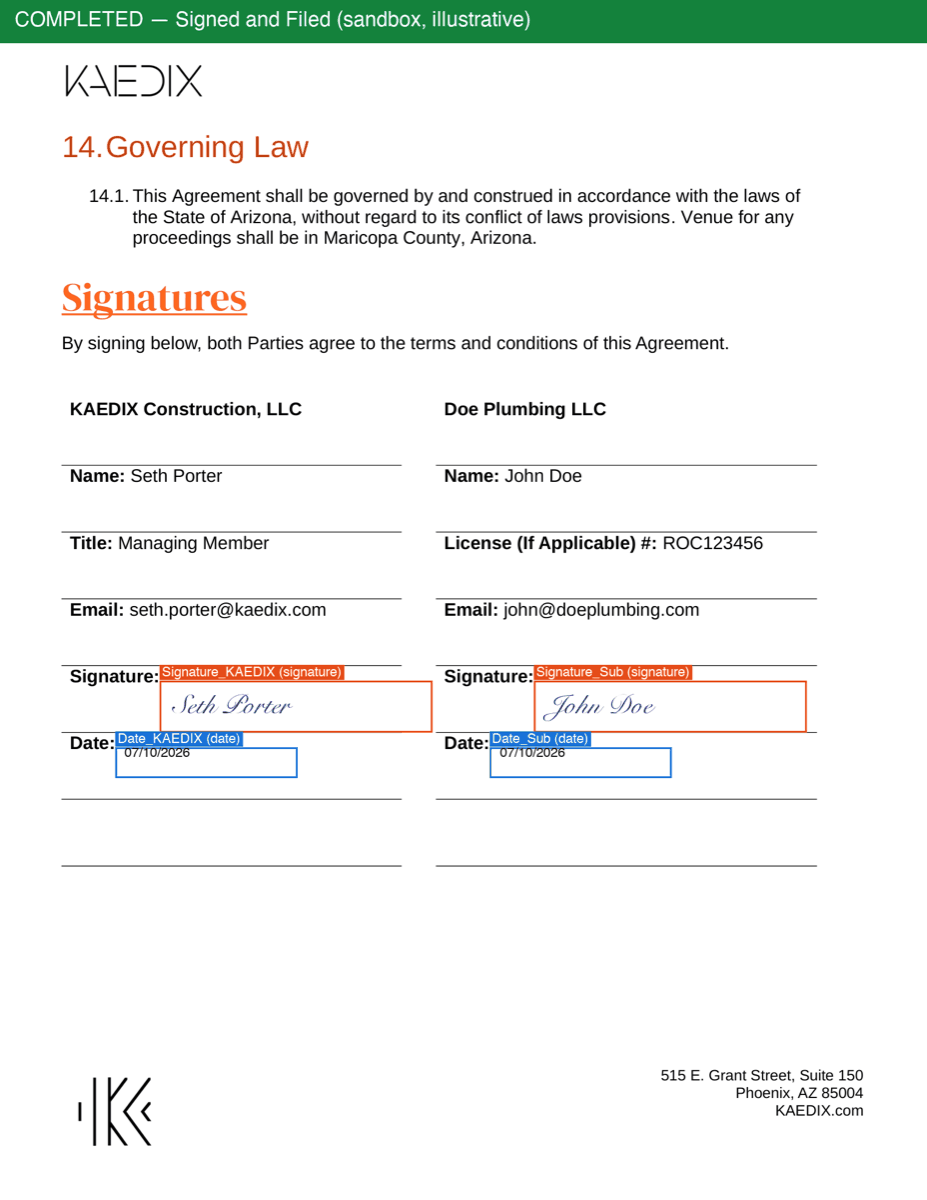
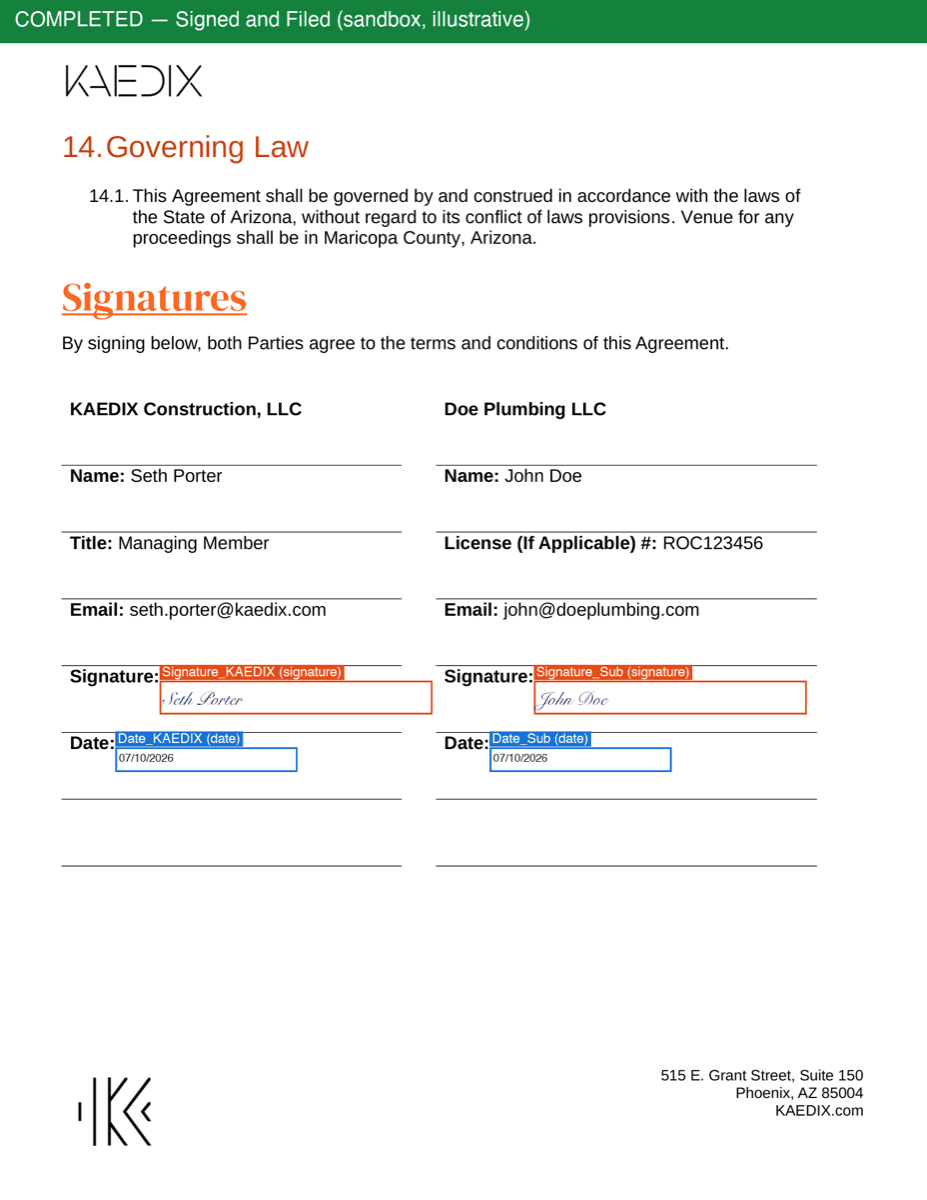
Fix signature/date field height so they sit above the ruled line
Each row's ruled line sits exactly 34pt below the field's anchor point,
same as the field's previous height, so the field landed right on the
line instead of clearing it. Measured the actual label/line coordinates
from the rendered PDF (not guessed) and shrunk the fields (signature
34pt -> 22pt, date 20pt -> 16pt) so they sit inside the blank space with
a visible margin above the line, matching how Name/Title/Email display
their values above their own underlines. Re-verified in sandbox: both
fields now clear their row's line by 12-18pt. Re-rendered the
field-placement and closeout PNGs using the real field coordinates this
time instead of eyeballed pixel positions.

Changed region(s): [[0.5135, 0.555, 0.8759, 0.6475], [0.1208, 0.555, 0.4833, 0.6475]]

diff --git a/backend/agreement_generator.py b/backend/agreement_generator.py
@@ -167,6 +167,15 @@ def _add_signature_tags(xml: str) -> str:
     Signatures section, mirroring the document's own signature blocks. Each
     anchor below is matched on its unique paraId so KAEDIX (left column) and
     Subcontractor (right column) get distinct fields.
+
+    The tag renders inline right after the "Signature:"/"Date:" label, so
+    DocuSeal anchors the field at the label's own line and extends the
+    field's height downward from there. Each row's ruled line sits exactly
+    34pt below that anchor — the same as the field's original height — so a
+    34pt-tall field lands right on top of the line instead of clearing it.
+    Shrinking the field to leave a visible margin (measured against the
+    rendered PDF's actual line/label coordinates, not guessed) keeps it
+    inside the blank space above the line, like every other row's value.
     """
 
     # KAEDIX — Signature
@@ -177,7 +186,7 @@ def _add_signature_tags(xml: str) -> str:
         '<w:p w14:paraId="0000010A" w14:textId="536EAB7E" w:rsidR="008777A2" w:rsidRDefault="00F13F85" w:rsidP="008777A2">'
         '<w:pPr><w:rPr><w:b/><w:bCs/></w:rPr></w:pPr>'
         '<w:r><w:rPr><w:b/><w:bCs/></w:rPr><w:t>Signature:</w:t></w:r>'
-        + _tag_run('{{Signature_KAEDIX;role=KAEDIX;type=signature;width=180;height=34}}')
+        + _tag_run('{{Signature_KAEDIX;role=KAEDIX;type=signature;width=180;height=22}}')
         + '</w:p>',
     )
 
@@ -189,7 +198,7 @@ def _add_signature_tags(xml: str) -> str:
         '<w:p w14:paraId="0000010C" w14:textId="165B9C7D" w:rsidR="008777A2" w:rsidRDefault="00F13F85" w:rsidP="008777A2">'
         '<w:pPr><w:rPr><w:b/><w:bCs/></w:rPr></w:pPr>'
         '<w:r><w:rPr><w:b/><w:bCs/></w:rPr><w:t>Signature:</w:t></w:r>'
-        + _tag_run('{{Signature_Sub;role=Subcontractor;type=signature;width=180;height=34}}')
+        + _tag_run('{{Signature_Sub;role=Subcontractor;type=signature;width=180;height=22}}')
         + '</w:p>',
     )
 
@@ -203,7 +212,7 @@ def _add_signature_tags(xml: str) -> str:
         '<w:pPr><w:rPr><w:b/><w:bCs/></w:rPr></w:pPr>'
         '<w:r><w:rPr><w:b/><w:bCs/></w:rPr><w:t>Date</w:t></w:r>'
         '<w:r w:rsidR="00F13F85"><w:rPr><w:b/><w:bCs/></w:rPr><w:t>:</w:t></w:r>'
-        + _tag_run('{{Date_KAEDIX;role=KAEDIX;type=date;width=120;height=20}}')
+        + _tag_run('{{Date_KAEDIX;role=KAEDIX;type=date;width=120;height=16}}')
         + '</w:p>',
     )
 
@@ -217,7 +226,7 @@ def _add_signature_tags(xml: str) -> str:
         '<w:pPr><w:rPr><w:b/><w:bCs/></w:rPr></w:pPr>'
         '<w:r><w:rPr><w:b/><w:bCs/></w:rPr><w:t>Date</w:t></w:r>'
         '<w:r w:rsidR="00F13F85"><w:rPr><w:b/><w:bCs/></w:rPr><w:t>:</w:t></w:r>'
-        + _tag_run('{{Date_Sub;role=Subcontractor;type=date;width=120;height=20}}')
+        + _tag_run('{{Date_Sub;role=Subcontractor;type=date;width=120;height=16}}')
         + '</w:p>',
     )
 
